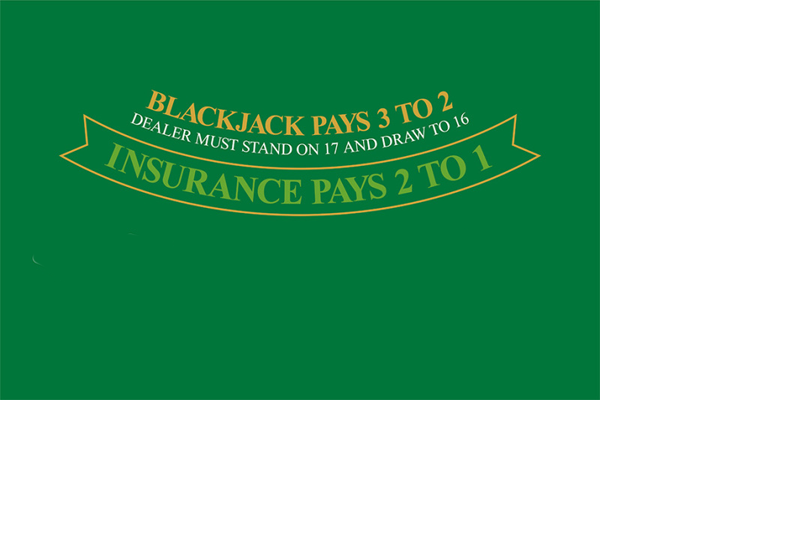
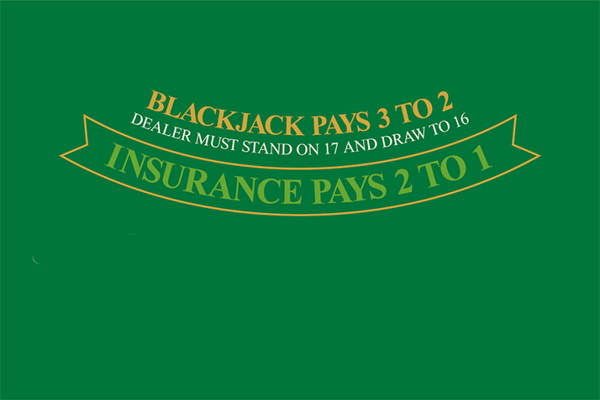
assets
Added chips image assets

diff --git a/src/screens/blackjackGame_screen.py b/src/screens/blackjackGame_screen.py
@@ -1,5 +1,6 @@
 import pygame, sys
 from buttons.button import Button
+from buttons.image_button import ImageButton
 from buttons.text import Text
 
 BG_COLOR = (30, 30, 30)
@@ -7,7 +8,7 @@ BLACK_COLOR = (0, 0, 0)
 
 class BlackJackGame:
     def __init__(self):
-        self.width = 600
+        self.width = 800
         self.height = 600
         
         self.setup_screen()
@@ -15,18 +16,41 @@ class BlackJackGame:
         self.click = False
         self.running = True
 
+        #blackjack table image
+        self.bj_table = pygame.image.load('blackjackGame/assets/blackJackTable.png')
+        self.bj_table =  pygame.transform.scale(self.bj_table, (800, 600))
+
         self.bet1 = 0
         # self, screen, x, y, width, height, text="", color=(DARK_GREY)
-        self.button = Button(self.screen, self.width//2 - 100, self.height//2 - 25, 200, 50, "bet", BLACK_COLOR)
-        self.current_bet1 = Text(self.screen, 100, 100, "0")
+        #chip buttons
+        self.chip500 = ImageButton(self.screen, self.width - 300, self.height/2 + 100, 'blackjackGame/assets/Chips/chip500.png', 0.75)
+        self.chip100 = ImageButton(self.screen, self.width - 300, self.height/2 + 200, 'blackjackGame/assets/Chips/chip100.png', 0.75)
+        self.chip50 = ImageButton(self.screen, self.width - 200, self.height/2 + 100, 'blackjackGame/assets/Chips/chip50.png', 0.75)
+        self.chip25 = ImageButton(self.screen, self.width - 200, self.height/2 + 200, 'blackjackGame/assets/Chips/chip25.png', 0.75)
+        self.chip5 = ImageButton(self.screen, self.width - 100, self.height/2 + 100, 'blackjackGame/assets/Chips/chip5.png', 0.75)
+        self.chip1 = ImageButton(self.screen, self.width - 100, self.height/2 + 200, 'blackjackGame/assets/Chips/chip1.png', 0.75)
+
+        #bank and bet area
+        self.current_bet1 = Text(self.screen, self.width - 200, self.height/2 + 60, f"Bank: ${self.bet1}")
         self.clock = pygame.time.Clock()
+
 
 
     def draw(self):
         self.screen.fill(BG_COLOR)
-        # screen.fill always in beggining of draw func
-        self.button.draw()
+        # screen.fill always in beginning of draw func
+        self.screen.blit(self.bj_table, (0, 0))
+        #bank/bet area background
+        pygame.draw.rect(self.screen, (65, 86, 127), pygame.Rect(self.width/2 + 100, self.height/2 + 100, 300, 200))
+        pygame.draw.rect(self.screen, (65, 86, 127), pygame.Rect(self.width/2 + 190, self.height/2 + 50, 210, 50))
+        self.chip500.draw()
+        self.chip100.draw()
+        self.chip50.draw()
+        self.chip25.draw()
+        self.chip5.draw()
+        self.chip1.draw()
         self.current_bet1.draw()
+
         # display.update() always in end of draw func
         pygame.display.update()
 
@@ -39,10 +63,10 @@ class BlackJackGame:
             pos = pygame.mouse.get_pos()
             print(pos)
             self.draw()
-            if self.chip1.collides(pos):
+            if self.chip500.collides(pos):
                 if self.click:
                     print("BUTTON CLICKED")
-                    self.bet1 += 100
+                    self.bet1 += 500
                     #self.blackjack_game.setbet("chris", 200)
                     self.current_bet1.setText(f"Current bet: {self.bet1}")
 

diff --git a/src/blackjackGame/main.py b/src/blackjackGame/main.py
@@ -17,10 +17,6 @@ while game1.total_players < 1:
 #start new game
 game1.startGame()
 
-def setPlayerBet(player):
-  #change text input to receive button input
-  bet = int(input("Enter your bet: "))
-  player.setBet(bet)
 
 #begin main game loop here
 while True:
@@ -28,9 +24,9 @@ while True:
   #ante - in run loop
   for name in game1.storage.keys():
       print(name, 'please enter your bet:')
-      #bet = int(input())
+      bet = int(input())
 
-      setPlayerBet(game1.storage[name])
+      #setPlayerBet(game1.storage[name])
       
       print('Bet: ')
       print(game1.storage[name].getBet())
@@ -174,4 +170,5 @@ while True:
   else:
     break
 
+#launch exit screen
 print('Thank you for playing!')

diff --git a/src/main.py b/src/main.py
@@ -3,6 +3,7 @@ pygame.init()
 # init pygame before importing other dependencies
 
 from screens.main_screen import MainScreen
+from blackjackGame.game import BlackjackGame
 
 def main():
     main_screen = MainScreen()
@@ -10,3 +11,18 @@ def main():
 
 if __name__ == "__main__":
     main()
+
+#use lines 7- 18 in a home screen
+game1 = BlackjackGame()
+
+game1.addDealer([], 0)
+
+#add players - stay in main
+while game1.total_players < 1:
+    new_player = input('Enter your name: ')
+    lang = input('Enter language: (en)glish, (es)pañol, (fr)ancais ')
+    game1.addPlayer(new_player, lang, 1000, 0, [], 0, 0)
+
+#start new game
+game1.startGame()
+

diff --git a/src/components/login_form.py b/src/components/login_form.py
@@ -2,6 +2,7 @@ import pygame
 from buttons.button import Button
 from buttons.input_box import InputBox
 from network.users.users import UserModel
+from blackjackGame.game import BlackjackGame
 
 padding = 10
 
@@ -47,3 +48,7 @@ class LoginForm:
             return {}
         else:
             return response
+
+        #replace 'en' with drop down menu for language selection
+        game1 = BlackjackGame()
+        game1.addPlayer(username, 'en', 1000, 0, [], 0, 0)

diff --git a/src/blackjackGame/game.py b/src/blackjackGame/game.py
@@ -1,5 +1,5 @@
-from player import Player
-from dealer import Dealer
+from blackjackGame.player import Player
+from blackjackGame.dealer import Dealer
 
 #class for game
 class BlackjackGame:
@@ -32,4 +32,4 @@ class BlackjackGame:
                   player_object.getHand(), player_object.setbj(0))
 
     def run(self):
-     pass
+        pass

diff --git a/src/buttons/text.py b/src/buttons/text.py
@@ -1,7 +1,7 @@
 import pygame
 
 class Text:
-    def __init__(self, screen, x, y, text="", font_size=20):
+    def __init__(self, screen, x, y, text="", font_size=40):
         self.font = pygame.font.SysFont('leelawadee', font_size)
         self.screen = screen
         self.text = text

diff --git a/src/blackjackGame/player.py b/src/blackjackGame/player.py
@@ -1,4 +1,4 @@
-from deck import Deck
+from blackjackGame.deck import Deck
 from itertools import cycle
 
 #class for new player

diff --git a/src/blackjackGame/dealer.py b/src/blackjackGame/dealer.py
@@ -1,4 +1,4 @@
-from deck import Deck
+from blackjackGame.deck import Deck
 
 #class for dealer
 class Dealer:
